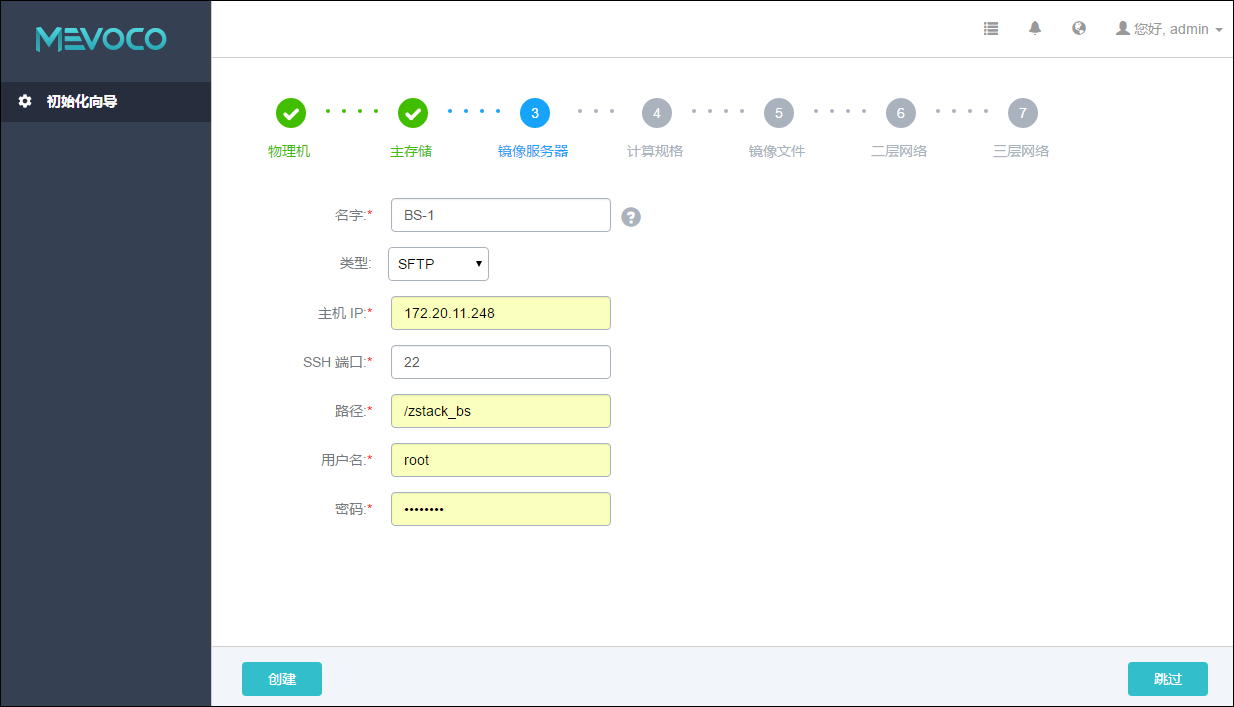
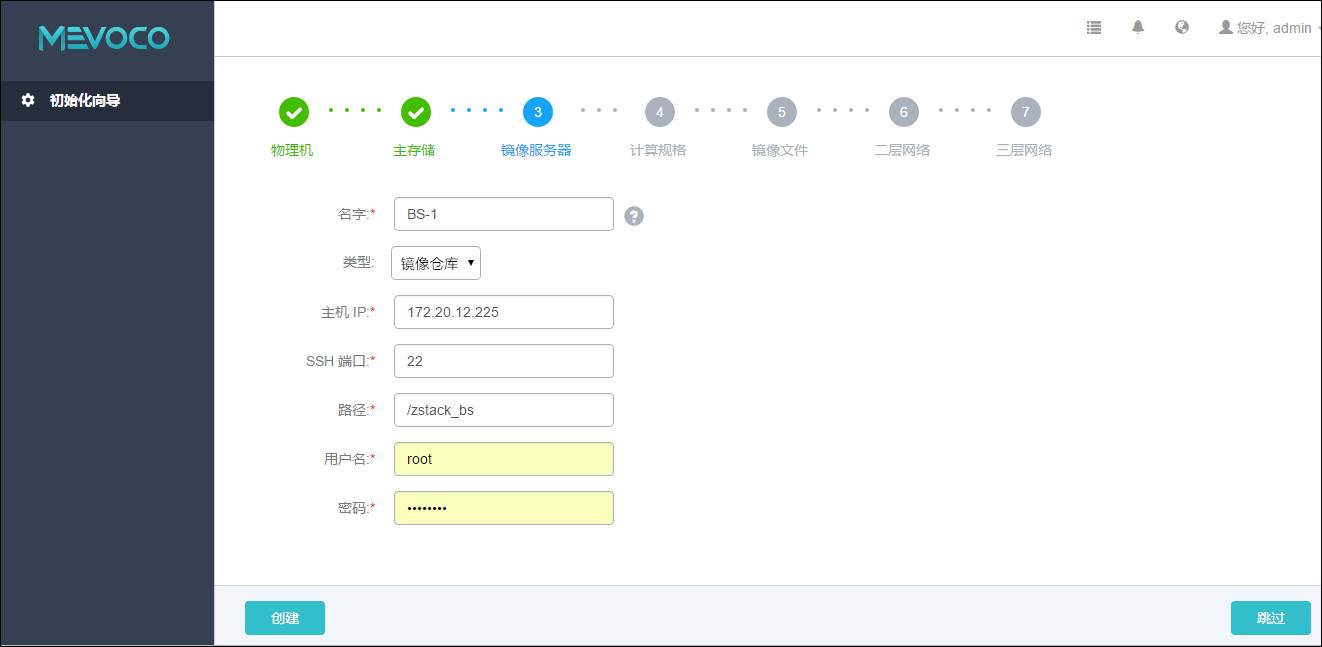
Updates Wizard/bs.md
Auto commit by GitBook Editor

diff --git a/Wizard/bs.md b/Wizard/bs.md
@@ -20,7 +20,7 @@ FusionStor采用了FusionStor集群提供的分布式块存储作为镜像存储
 
 如果主存储采用了NFS 或者SharedMountPoint类型，用户可以手动将此相应的共享目录挂载到对应的镜像服务器的本地目录上，通过此方法可以实现主存储和镜像服务器存储全部使用网络共享存储方式。
 
-添加Sftp类型镜像服务器具体步骤，如图5-3-1所示：
+添加镜像仓库类型镜像服务器具体步骤，如图5-3-1所示：
 
 1. 输入镜像服务器的名字。点击名字输入框后边的问号，会提示添加镜像服务器的帮助。
 
@@ -36,17 +36,15 @@ FusionStor采用了FusionStor集群提供的分布式块存储作为镜像存储
 
 7. 点击创建按钮，Mevoco系统会配置镜像服务器。
 
-![png](../images/5-3-1.png "图5-3-1 添加Sftp类型镜像服务器界面")
-###### 图5-3-1 添加Sftp类型镜像服务器界面
 
 添加镜像仓库类型镜像服务器具体步骤，与添加Sftp的步骤类似，如图5-3-2所示：
 
-![png](../images/5-3-2.png "图5-3-2 添加镜像仓库类型镜像服务器界面")
-######图5-3-2  添加镜像仓库类型镜像服务器界面
+![png](../images/5-3-1.png "图5-3-1 添加镜像仓库类型镜像服务器界面")
+######图5-3-1  添加镜像仓库类型镜像服务器界面
 
 如果在添加主存储时，指定了存储池，则需手动添加同一个Ceph存储为镜像服务器。
 
-添加Ceph类型镜像服务器具体步骤，如图5-3-3所示：
+添加Ceph类型镜像服务器具体步骤，如图5-3-2所示：
 
 1. 输入镜像服务器的名字。
 
@@ -64,13 +62,13 @@ FusionStor采用了FusionStor集群提供的分布式块存储作为镜像存储
 
 可以点击加号添加多个Ceph 监控节点。通常添加三个Ceph监控节点为较合适的方案。至少需添加一个可用的Ceph监控节点。也可以点击减号减少Ceph 监控节点的添加个数。
 
-![png](../images/5-3-3.png "图5-3-3 添加Ceph类型镜像服务器界面")
-###### 图5-3-3 添加Ceph类型镜像服务器界面
+![png](../images/5-3-2.png "图5-3-2 添加Ceph类型镜像服务器界面")
+###### 图5-3-2 添加Ceph类型镜像服务器界面
 
 一般情况下Fusionstor类型的镜像服务器会自动添加，无须手动配置。其添加会随着Fusionstor主存储一起添加。
 
 添加FusionStor类型镜像服务器具体步骤，与添加Ceph的步骤类似，如图5-3-3所示：
-![png](../images/5-3-4.png "图5-3-4 添加FusionStor类型镜像服务器界面")
-###### 图5-3-4 添加FusionStor类型镜像服务器界面 
+![png](../images/5-3-3.png "图5-3-3 添加FusionStor类型镜像服务器界面")
+###### 图5-3-3 添加FusionStor类型镜像服务器界面 
 
-注意：添加镜像服务器错误，请参考[20.3.3](/exception/bs.md)添加镜像服务器异常处理。
+注意：添加镜像服务器错误，请参考[添加镜像服务器](/exception/bs.md)异常处理。
